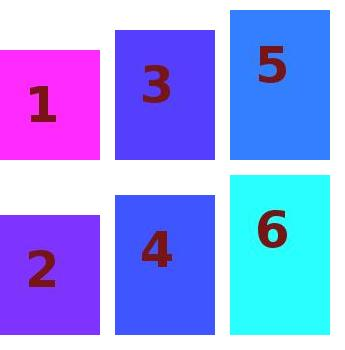
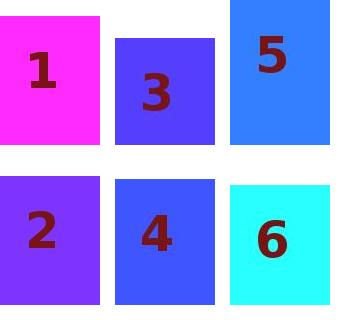
change merge example

diff --git a/examples/generate_images.py b/examples/generate_images.py
@@ -2,6 +2,7 @@
 from PIL import Image
 from PIL import ImageFont
 from PIL import ImageDraw
+import random
 import os
 
 
@@ -11,7 +12,7 @@ font2 = ImageFont.truetype(
 	"/usr/share/fonts/truetype/ttf-dejavu/DejaVuSans-Bold.ttf",10)
 #merge
 for i in range(1, 7):
-	img = Image.new('RGB', [100, 100 + i*10], (255/i, 255/(7-i), 255))
+	img = Image.new('RGB', [100, 100 + random.randint(1, 50)], (255/i, 255/(7-i), 255))
 	draw = ImageDraw.Draw(img)
 	draw.text((25 , 25),"{0}".format(i),(120,20,20), font = font1)
 	img.save('{0}.jpg'.format(i))

diff --git a/README.md b/README.md
@@ -34,6 +34,7 @@ A Python module for image processing: merge, crop.
 <img src="examples/merge/6.jpg"/>
 
 merge images above 6 images to one image. The positions of each image is determined by the arrange list.
+
 [['1.jpg', '3.jpg', '5.jpg'], 
  ['2.jpg', '4.jpg', '6.jpg']]
 
